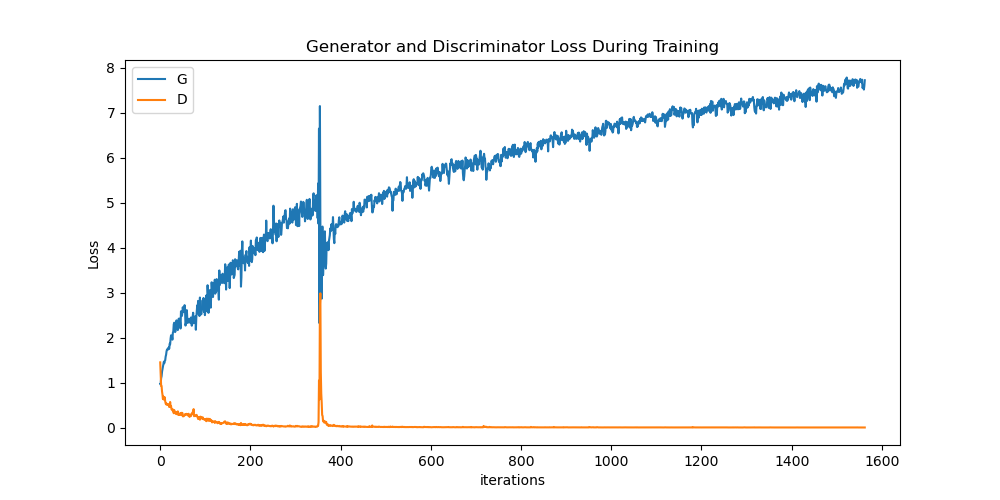
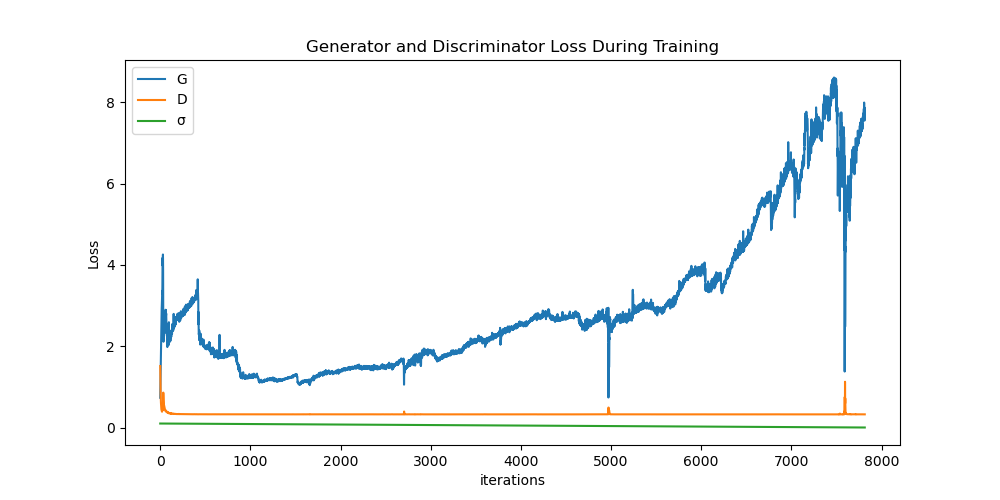
Plots with new architecture

diff --git a/Model/model.py b/Model/model.py
@@ -117,7 +117,8 @@ for epoch in range(num_epochs):
         std = std_list[iters]
 
         instance_noise = (torch.randn(data[0].size(0), 1, 28, 28) * std).to(device)
-        real_cpu = (data[0] + instance_noise).to(device)
+        real_cpu = data[0].to(device)
+        real_cpu += instance_noise
         b_size = real_cpu.size(0)
         label_fill = fill[data[1]].to(device)
 
